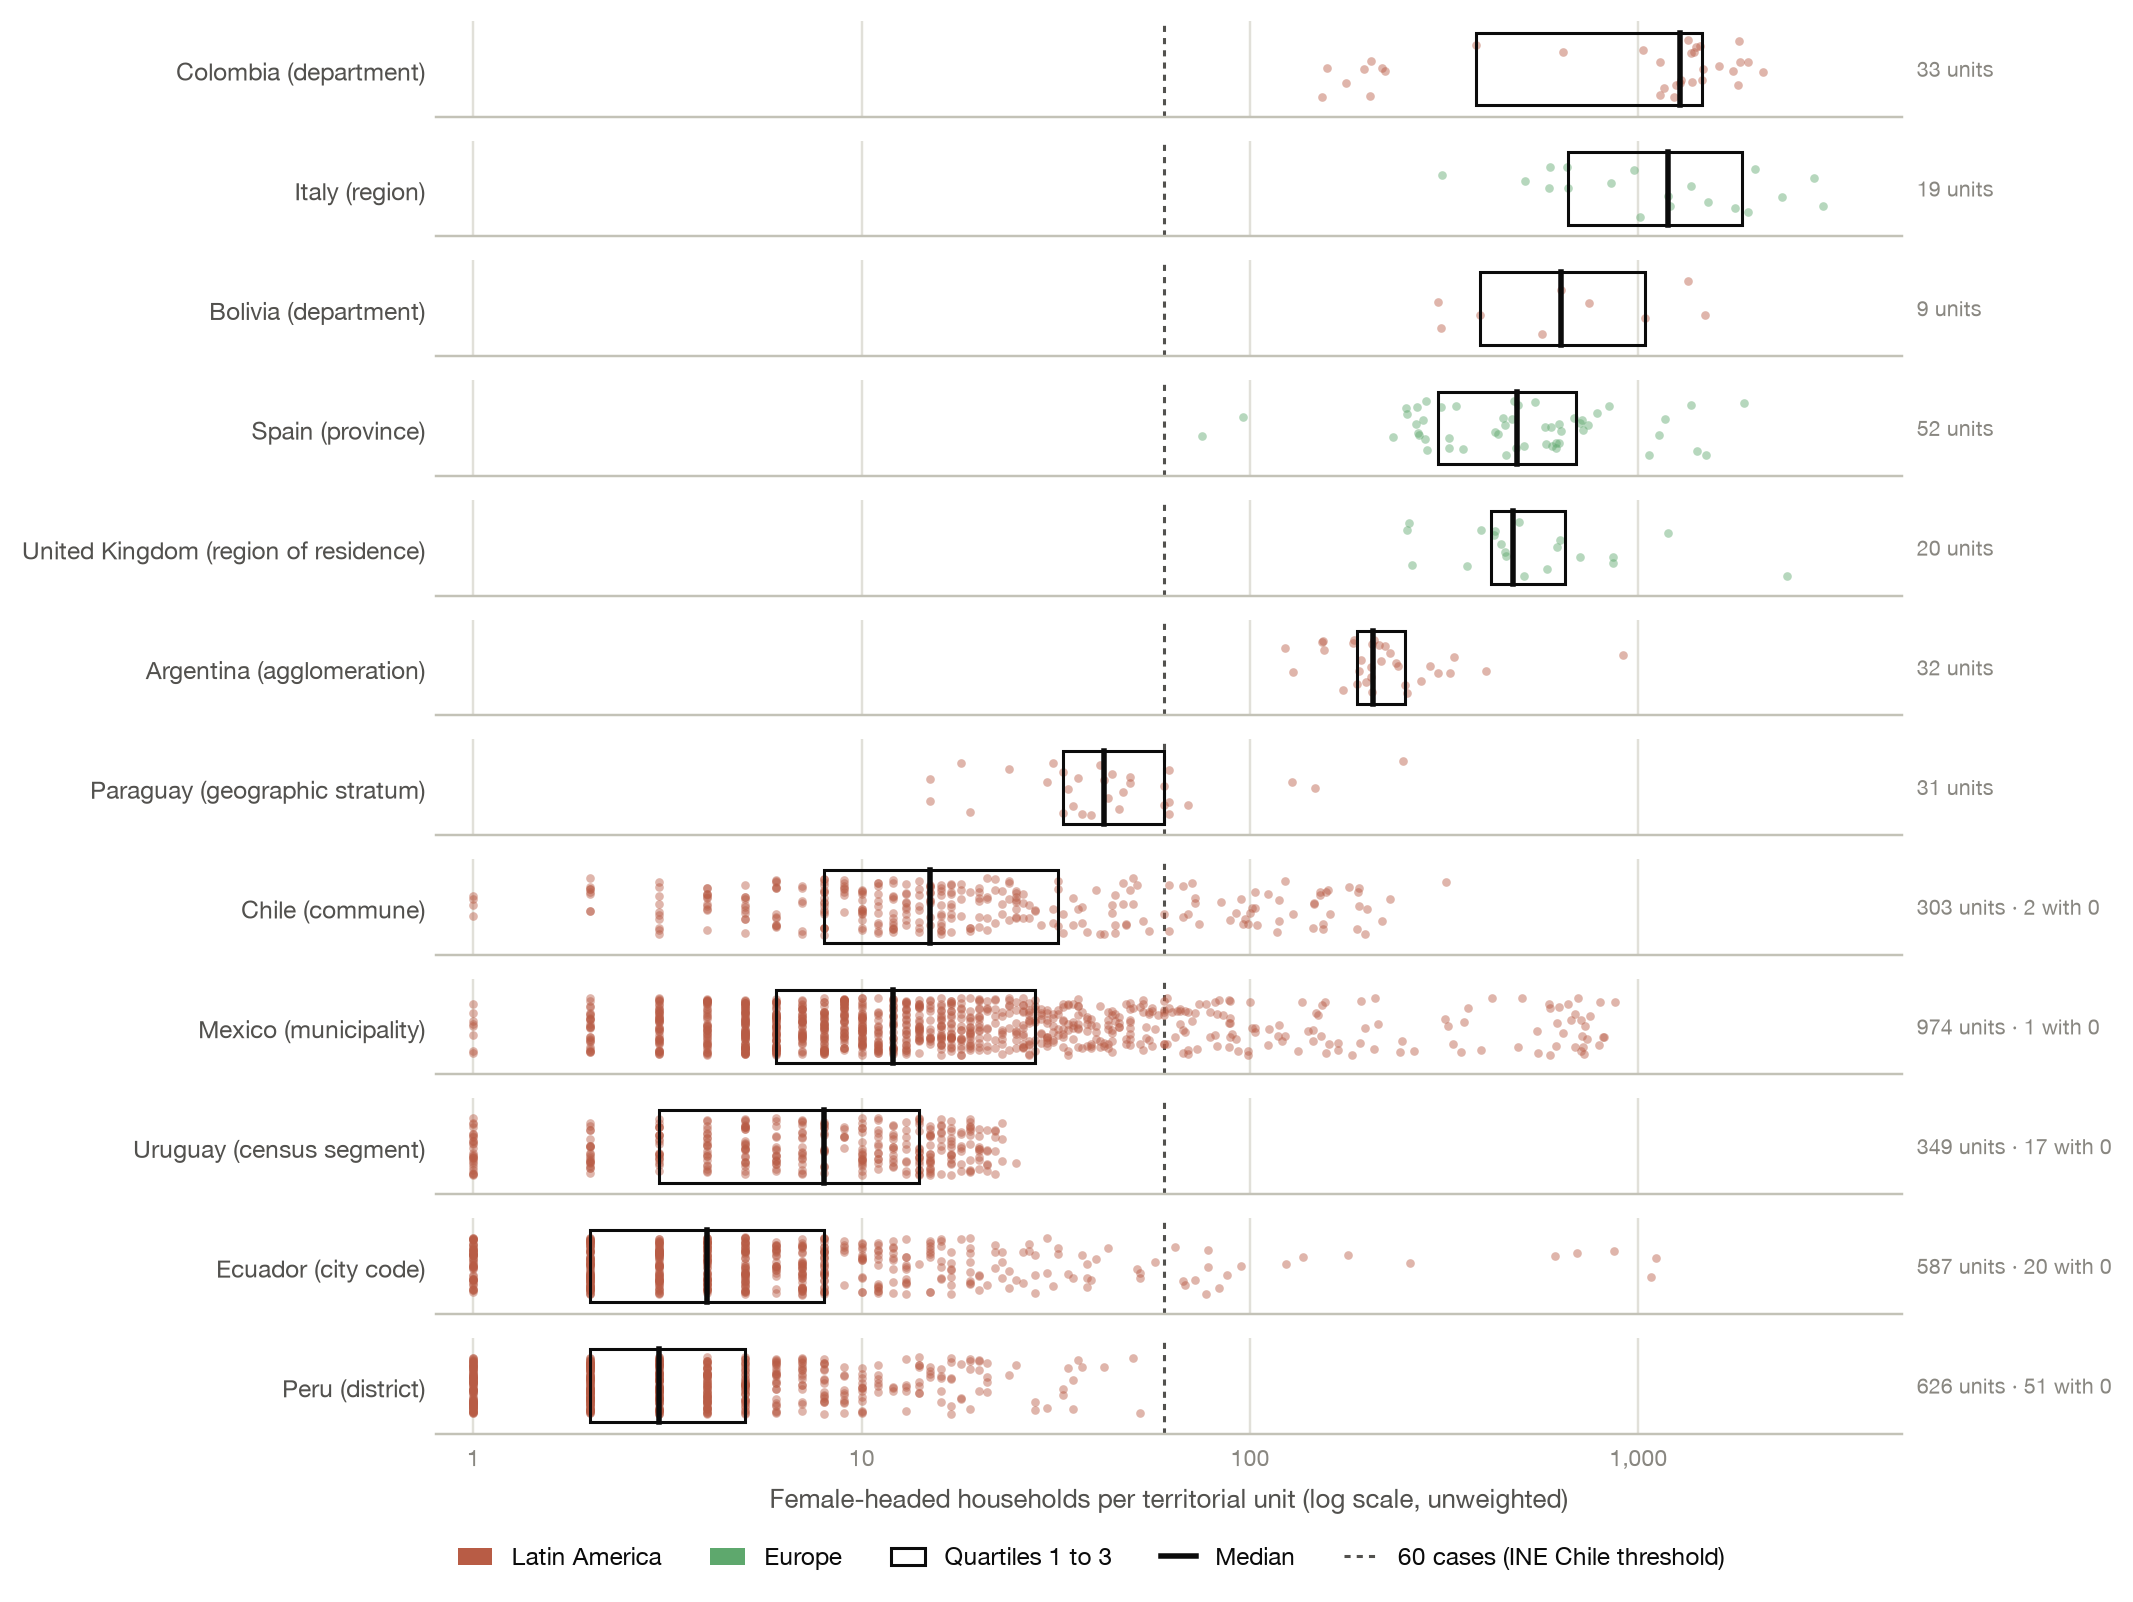
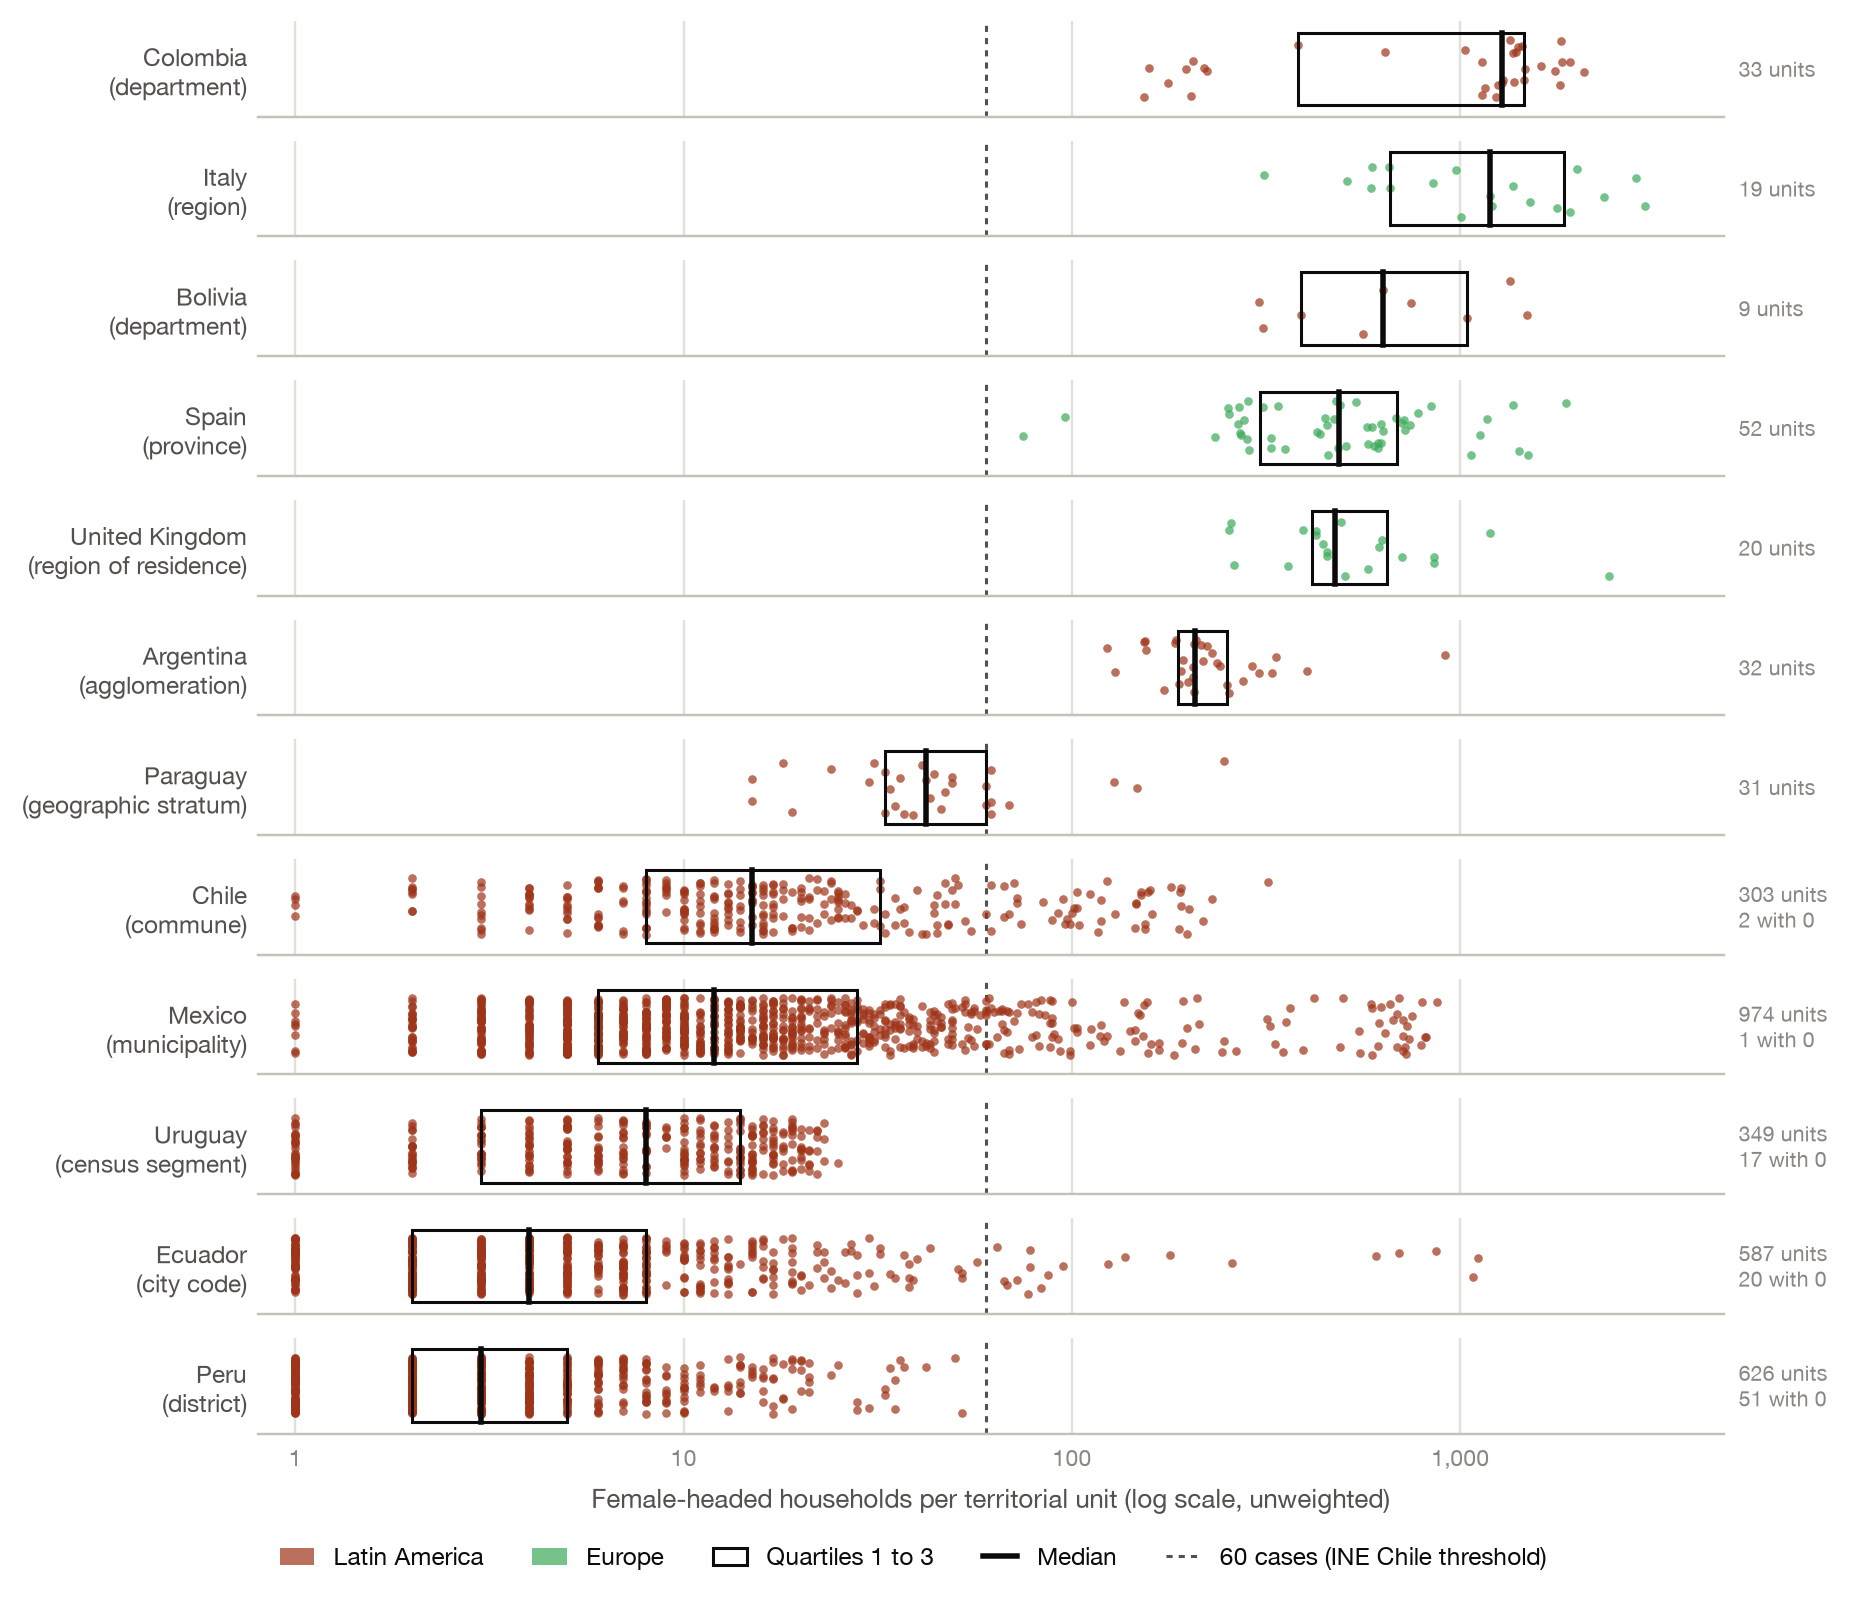
Figure 1: labels and counts on two lines, saturated colours that hold in greyscale

diff --git a/scripts/final_run_territory_figures.py b/scripts/final_run_territory_figures.py
@@ -24,7 +24,7 @@ ROOT = Path(__file__).resolve().parents[1]
 sys.path.insert(0, str(ROOT / "scripts"))
 sys.path.insert(0, str(ROOT / "scripts" / "llm"))
 from final_run_comparable_sample import local, sav  # noqa: E402
-from final_run_figures import (AXIS, GRID, INK, INK_2, MUTED, PAPER_REGION, PNG_DPI,  # noqa: E402
+from final_run_figures import (AXIS, GRID, INK, INK_2, MUTED, PNG_DPI,  # noqa: E402
                                TEXT, cap, load, region)
 
 RAW = ROOT / "data" / "raw"
@@ -47,6 +47,9 @@ UNIT_NAME = {  # (es, en)
 NOTES: dict = {}
 CASES = 60  # INE Chile's publication threshold in sample cases, from its documentation, drawn in every panel
 WHITE = "#ffffff"
+# Figure 1 colours: saturated, with a lightness gap that survives greyscale (blended at DOT_ALPHA on white, L* 55 vs 73).
+FIG1_REGION = {"latam": "#9e3418", "europe": "#3aaa58"}
+DOT_ALPHA = 0.7
 
 
 def heads(c, year=False):
@@ -169,20 +172,21 @@ def fig_heads_panels(D, T, lang, fh, out):
     fig, axes = plt.subplots(len(cs), 1, figsize=(8.6, 0.62 * len(cs) + 0.9), sharex=True, facecolor=WHITE)
     for ax, c in zip(axes, cs):
         v = fh[c][0]["female_heads"].to_numpy()
-        col = PAPER_REGION[region(c)]
+        col = FIG1_REGION[region(c)]
         ax.set_facecolor(WHITE)
         pos = v[v > 0]
-        ax.scatter(pos, rng.uniform(-0.3, 0.3, len(pos)), s=8, color=col, alpha=0.45, linewidth=0, zorder=3)
+        ax.scatter(pos, rng.uniform(-0.3, 0.3, len(pos)), s=8, color=col, alpha=DOT_ALPHA, linewidth=0, zorder=3)
         q1, med, q3 = np.percentile(v, [25, 50, 75])
         ax.add_patch(plt.Rectangle((q1, -0.38), q3 - q1, 0.76, facecolor="none", edgecolor=INK, linewidth=1, zorder=4))
         ax.plot([med, med], [-0.38, 0.38], color=INK, linewidth=1.8, zorder=5)
         ax.axvline(CASES, color=INK_2, linewidth=1, linestyle=(0, (2, 2)), zorder=2)
         zero = int((v == 0).sum())
-        note = f"{num(len(v))} {L['units']}" + (f" · {num(zero)} {L['zero']}" if zero else "")
+        # Two lines, so the label column is narrower and the plot area wider.
+        note = f"{num(len(v))} {L['units']}" + (f"\n{num(zero)} {L['zero']}" if zero else "")
         ax.text(1.01, 0, note, transform=ax.get_yaxis_transform(), va="center", ha="left", fontsize=7, color=MUTED)
         ax.set_ylim(-0.5, 0.5)
         ax.set_yticks([0])
-        ax.set_yticklabels([f"{T['country'][c]} ({UNIT_NAME[c][k]})"], fontsize=8, color=INK_2)
+        ax.set_yticklabels([f"{T['country'][c]}\n({UNIT_NAME[c][k]})"], fontsize=8, color=INK_2)
         ax.tick_params(axis="y", length=0)
         ax.tick_params(axis="x", which="both", labelsize=7.5, length=0)
         ax.xaxis.grid(True, color=GRID, linewidth=0.8, which="major")
@@ -196,7 +200,7 @@ def fig_heads_panels(D, T, lang, fh, out):
     ax.xaxis.set_major_formatter(plt.FuncFormatter(lambda x, _: num(x)))
     ax.set_xlabel(cap(L["fh_axis"]), fontsize=8.5)
     fig.subplots_adjust(hspace=0.25)
-    h = [Patch(facecolor=PAPER_REGION[r], label=T["region"][r]) for r in ("latam", "europe")]
+    h = [Patch(facecolor=FIG1_REGION[r], alpha=DOT_ALPHA, label=T["region"][r]) for r in ("latam", "europe")]
     h += [Patch(facecolor="none", edgecolor=INK, linewidth=1, label=cap(L["iqr"])),
           Line2D([], [], color=INK, linewidth=1.8, label=cap(L["median"])),
           Line2D([], [], color=INK_2, linewidth=1, linestyle=(0, (2, 2)), label=L["cases60"])]
